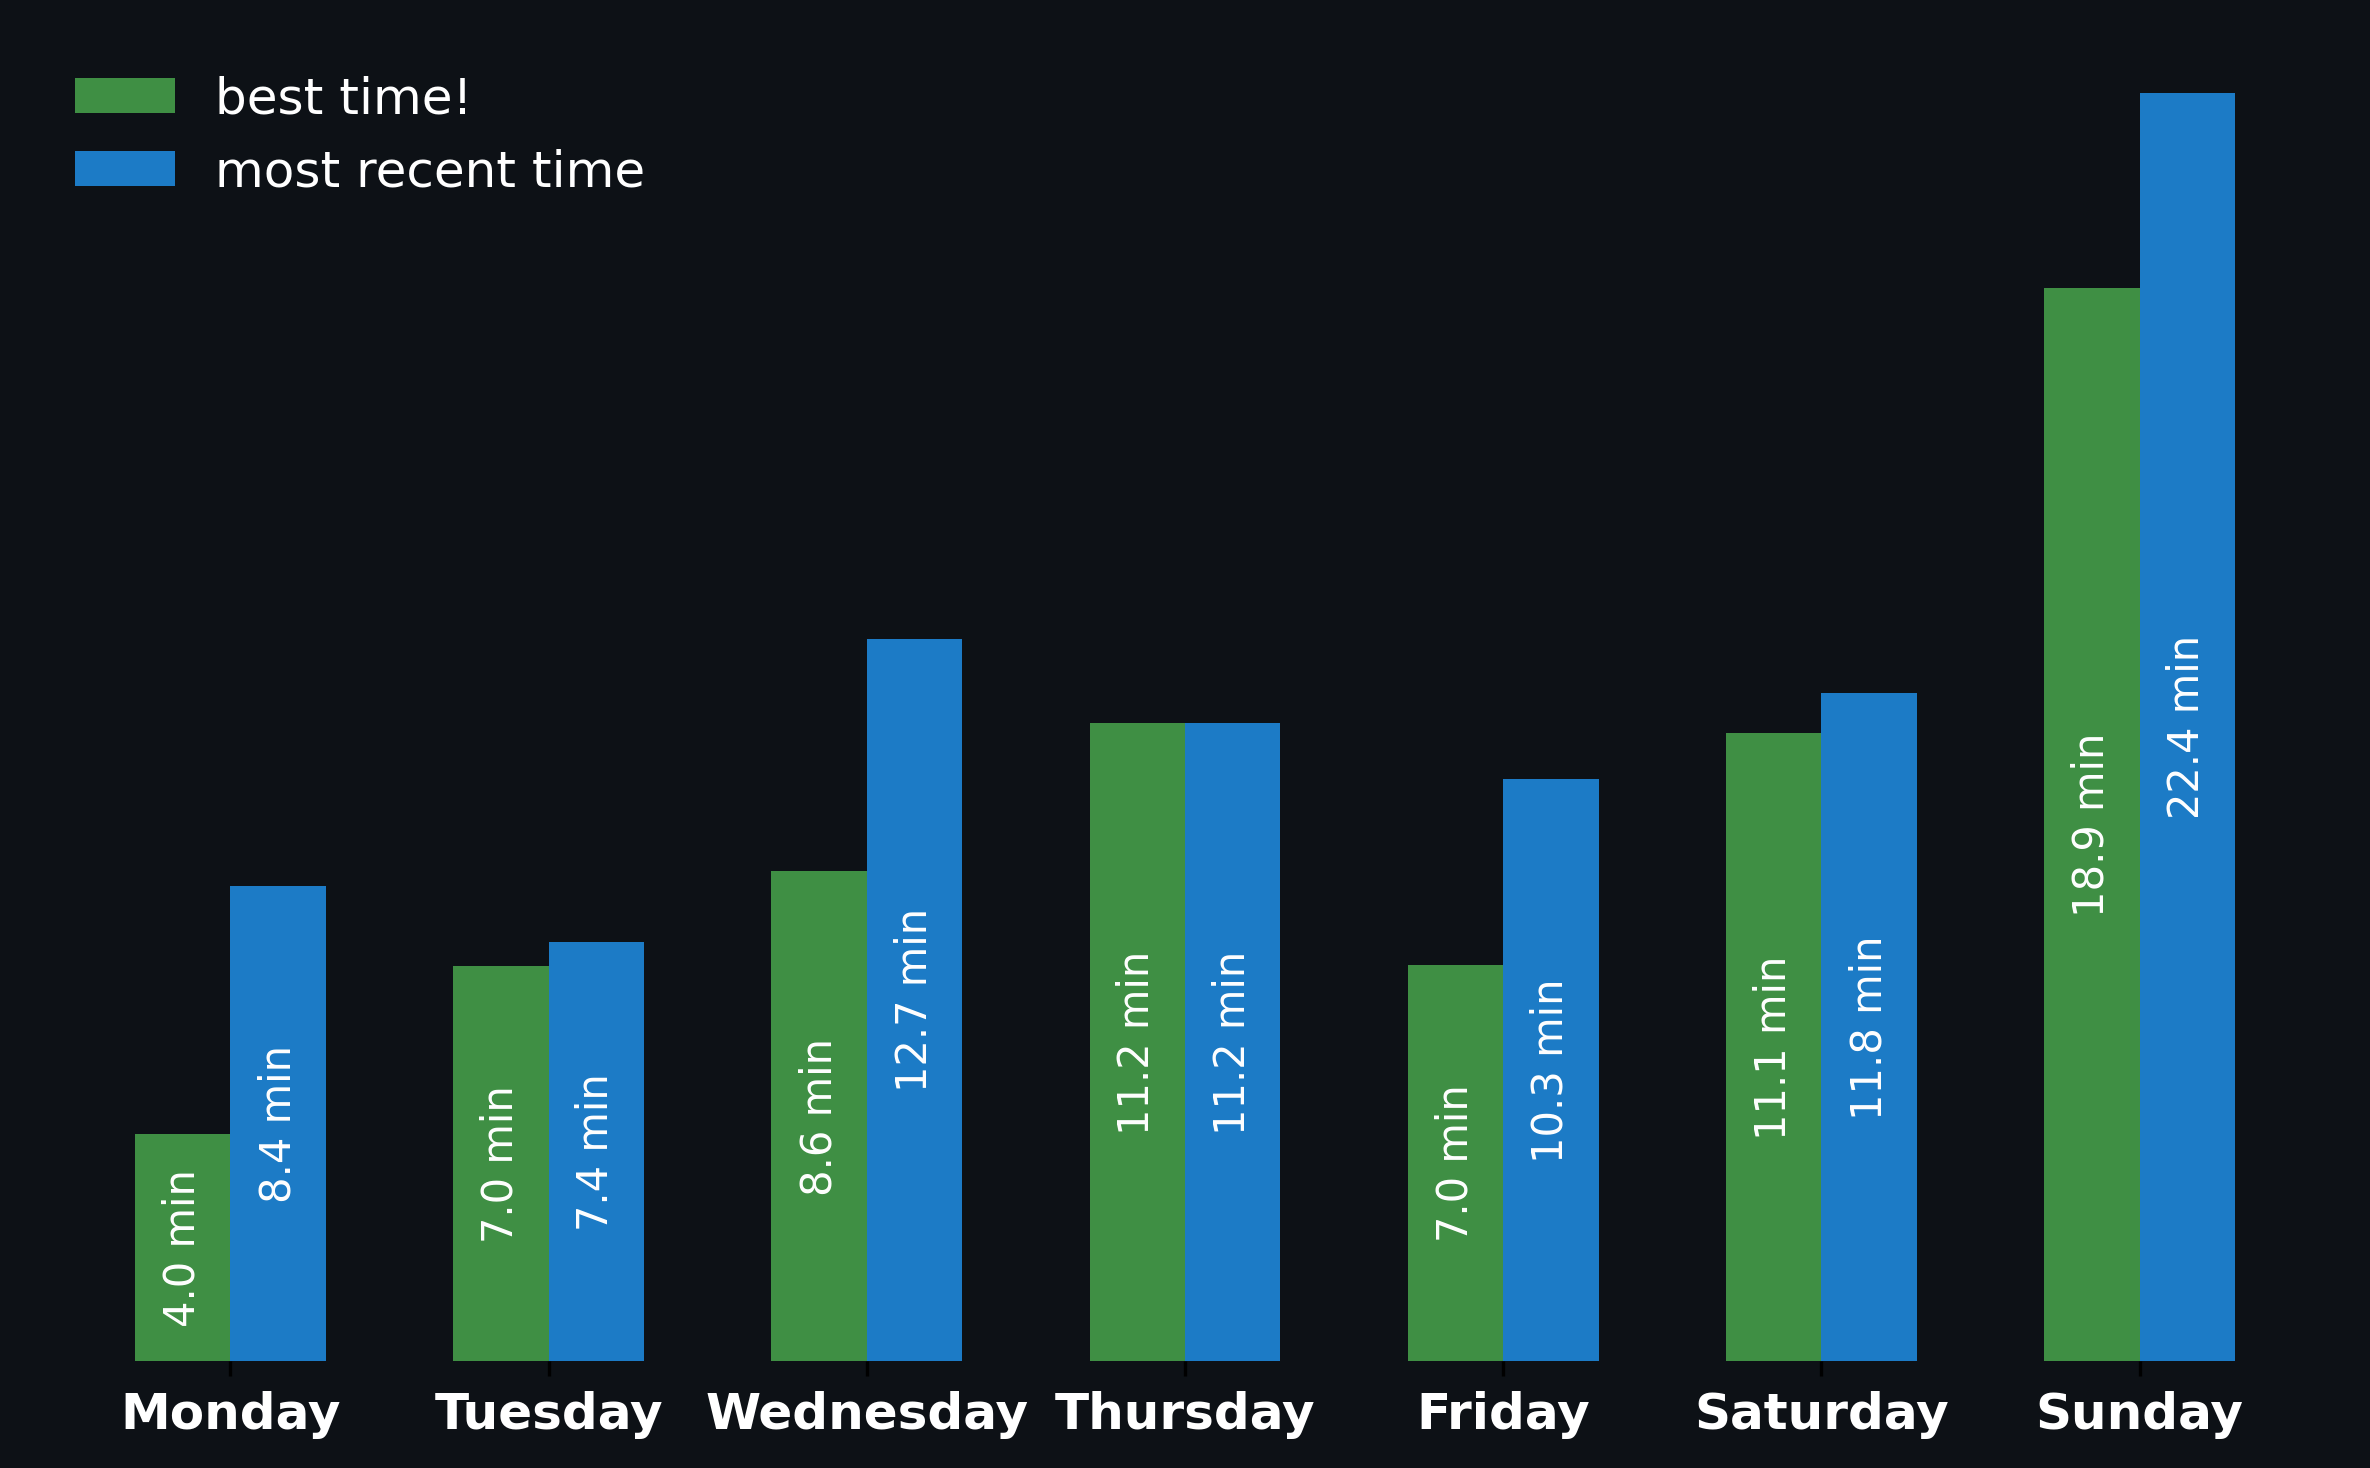
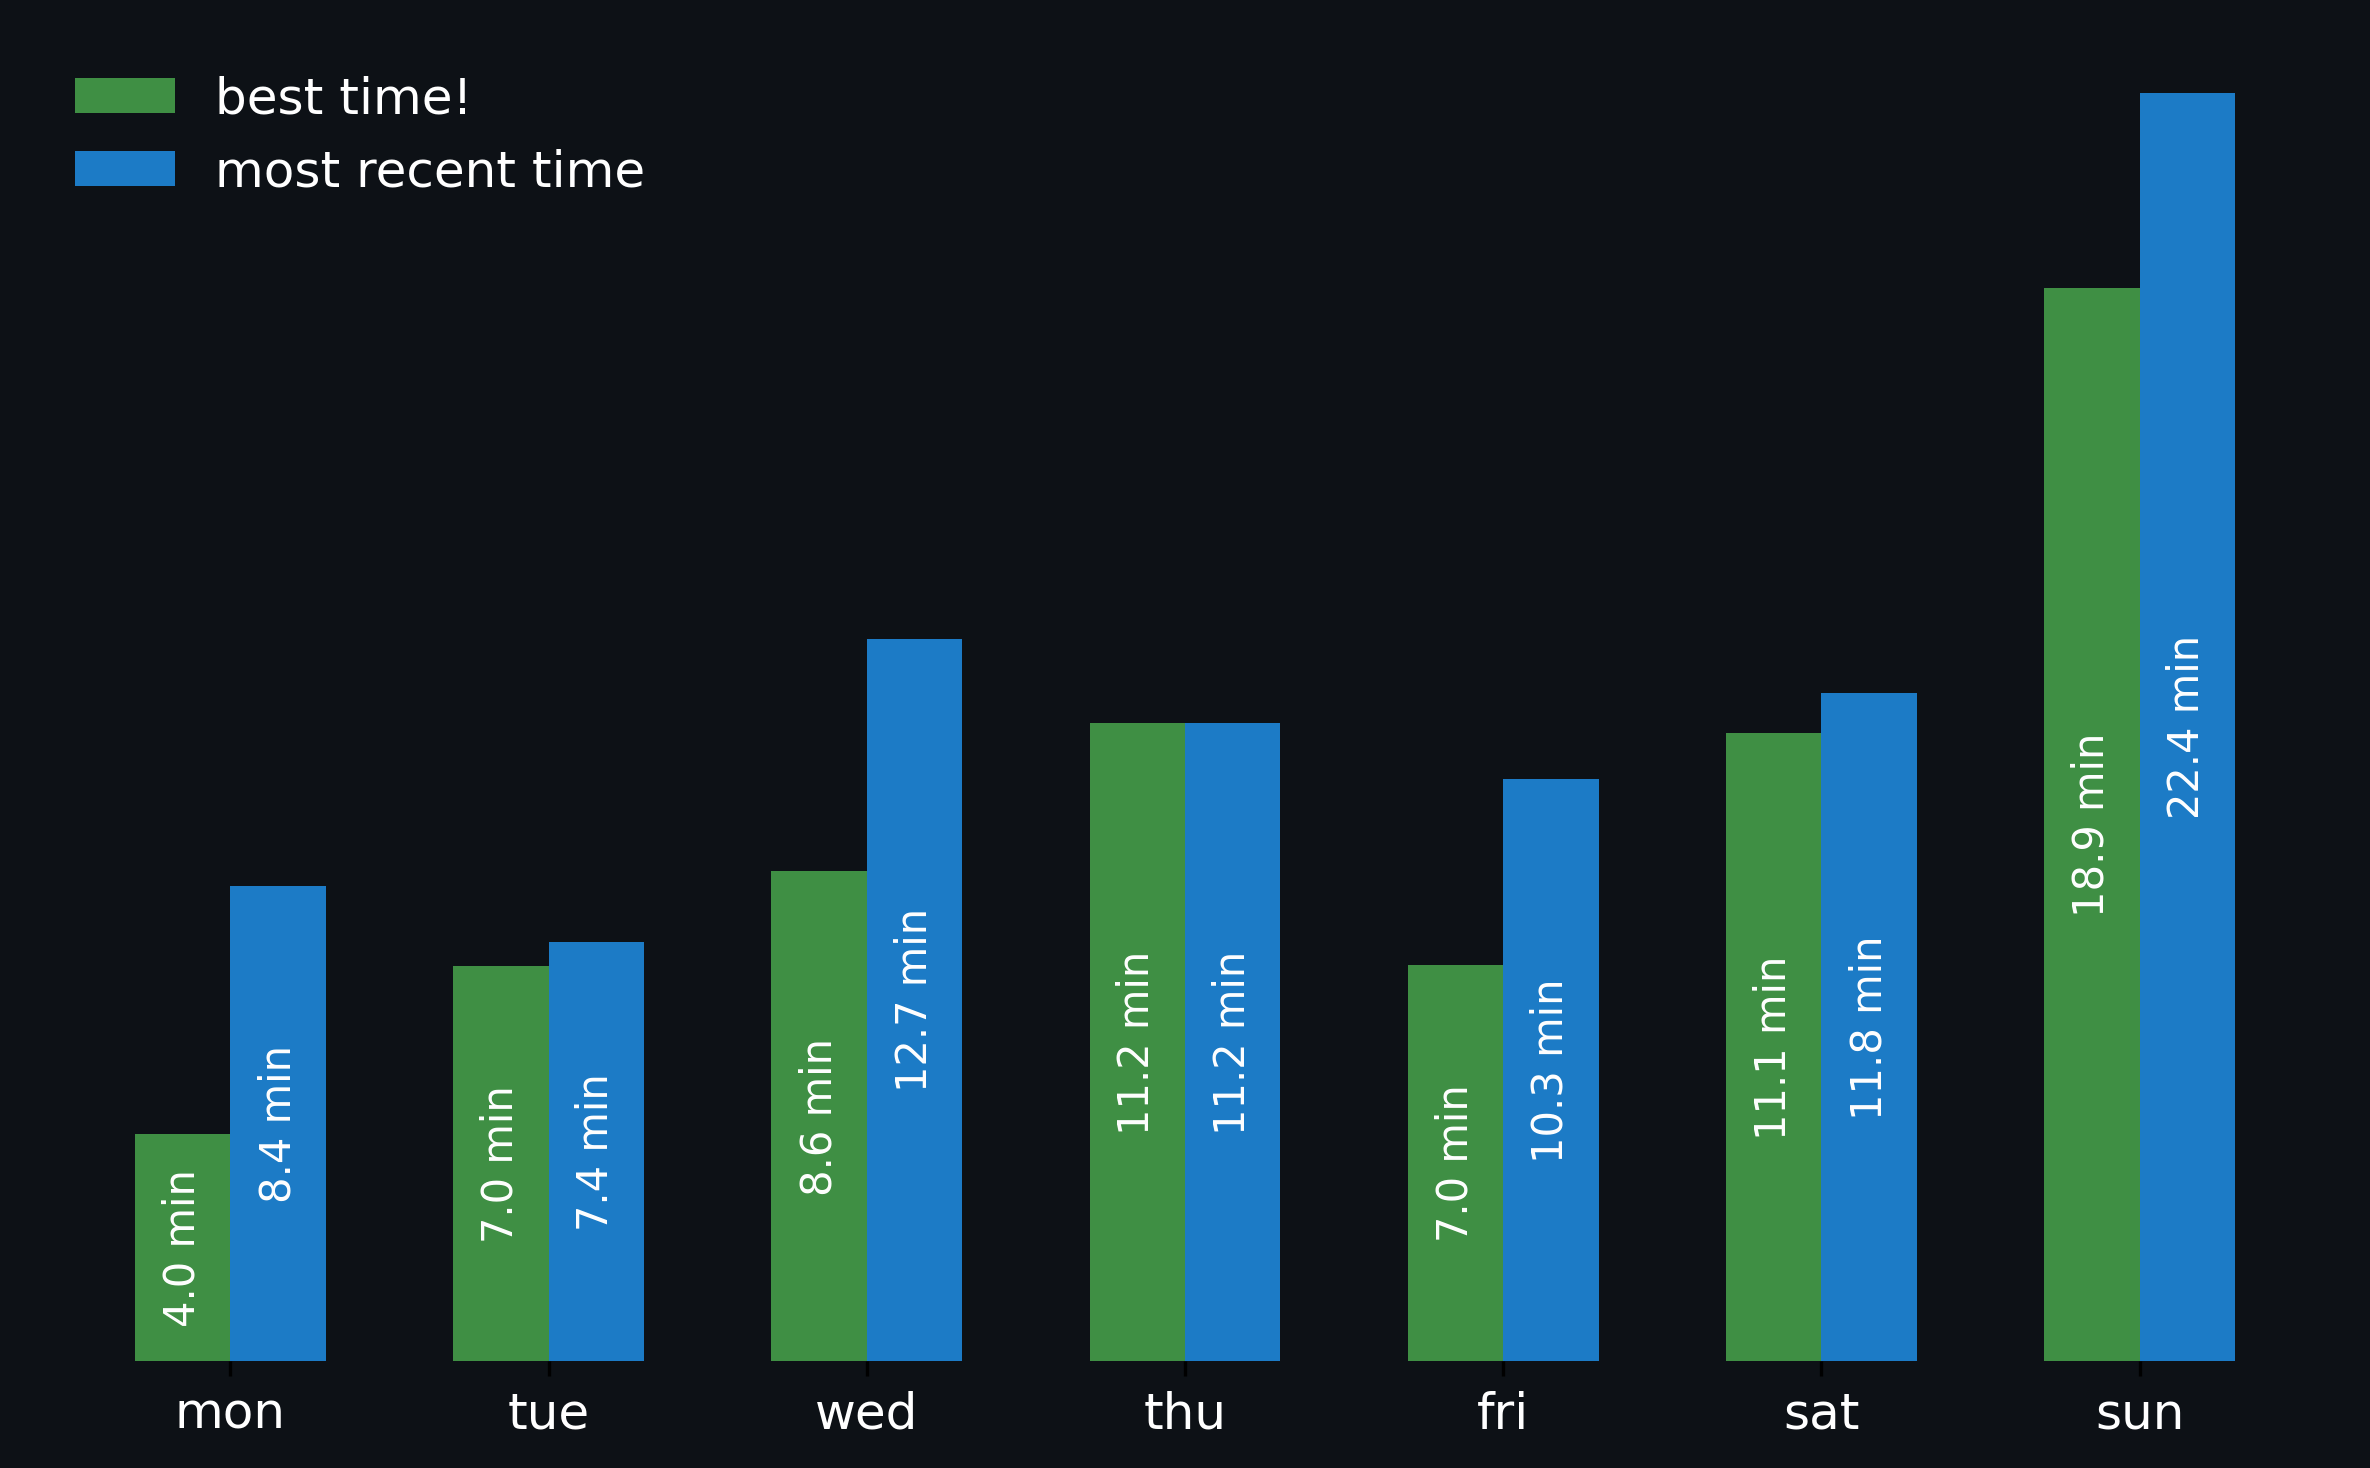
make days lowercase lol

diff --git a/process_stats.py b/process_stats.py
@@ -85,7 +85,8 @@ def generate_graphs(stats):
         plt.text(bar.get_x() + bar.get_width() / 2, bar.get_height() / 2, f"{time:.1f} min",
                  ha='center', va='center', fontsize=10, color="white", rotation=90)
 
-    plt.xticks(x, days, fontsize=12, fontweight='bold', color="white")
+    days = [day[:3].lower() for day in days]
+    plt.xticks(x, days, fontsize=12, color="white")
     plt.yticks(fontsize=10)
 
     plt.gca().spines['top'].set_visible(False)
